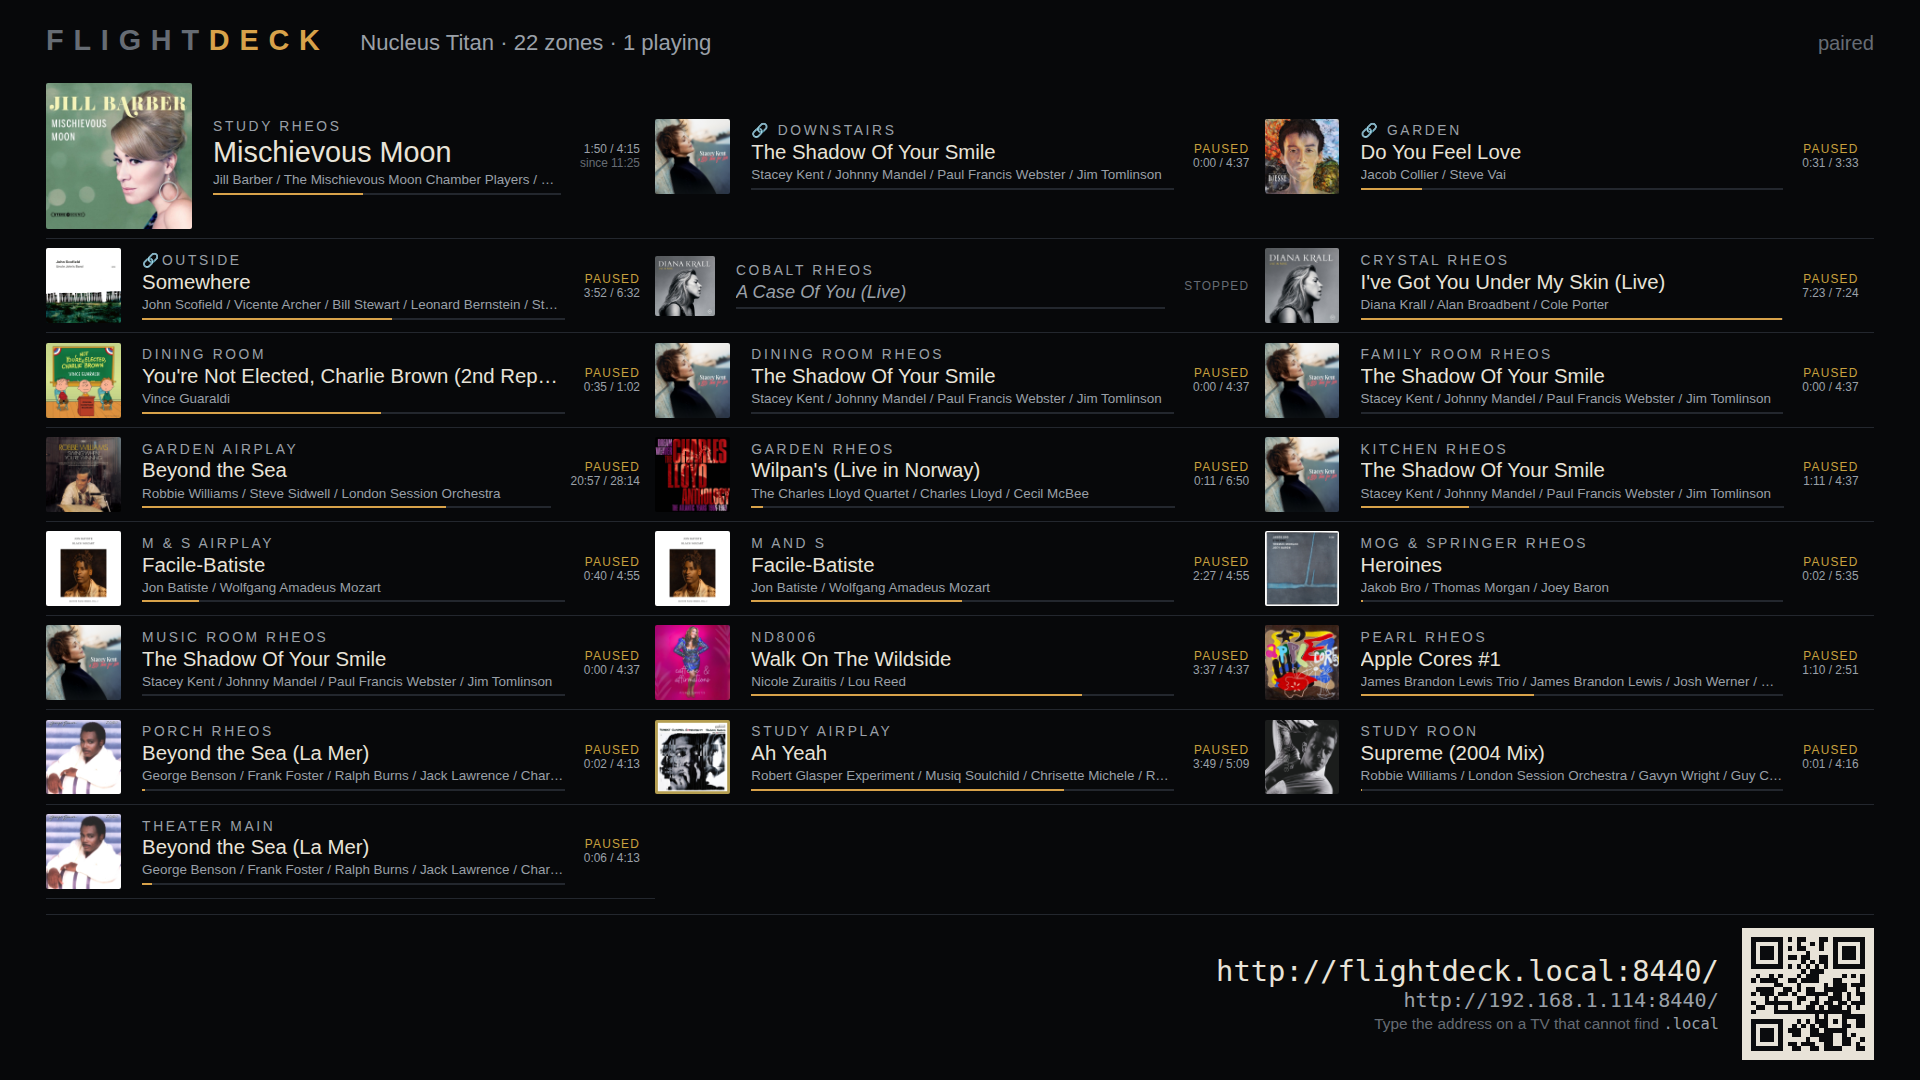
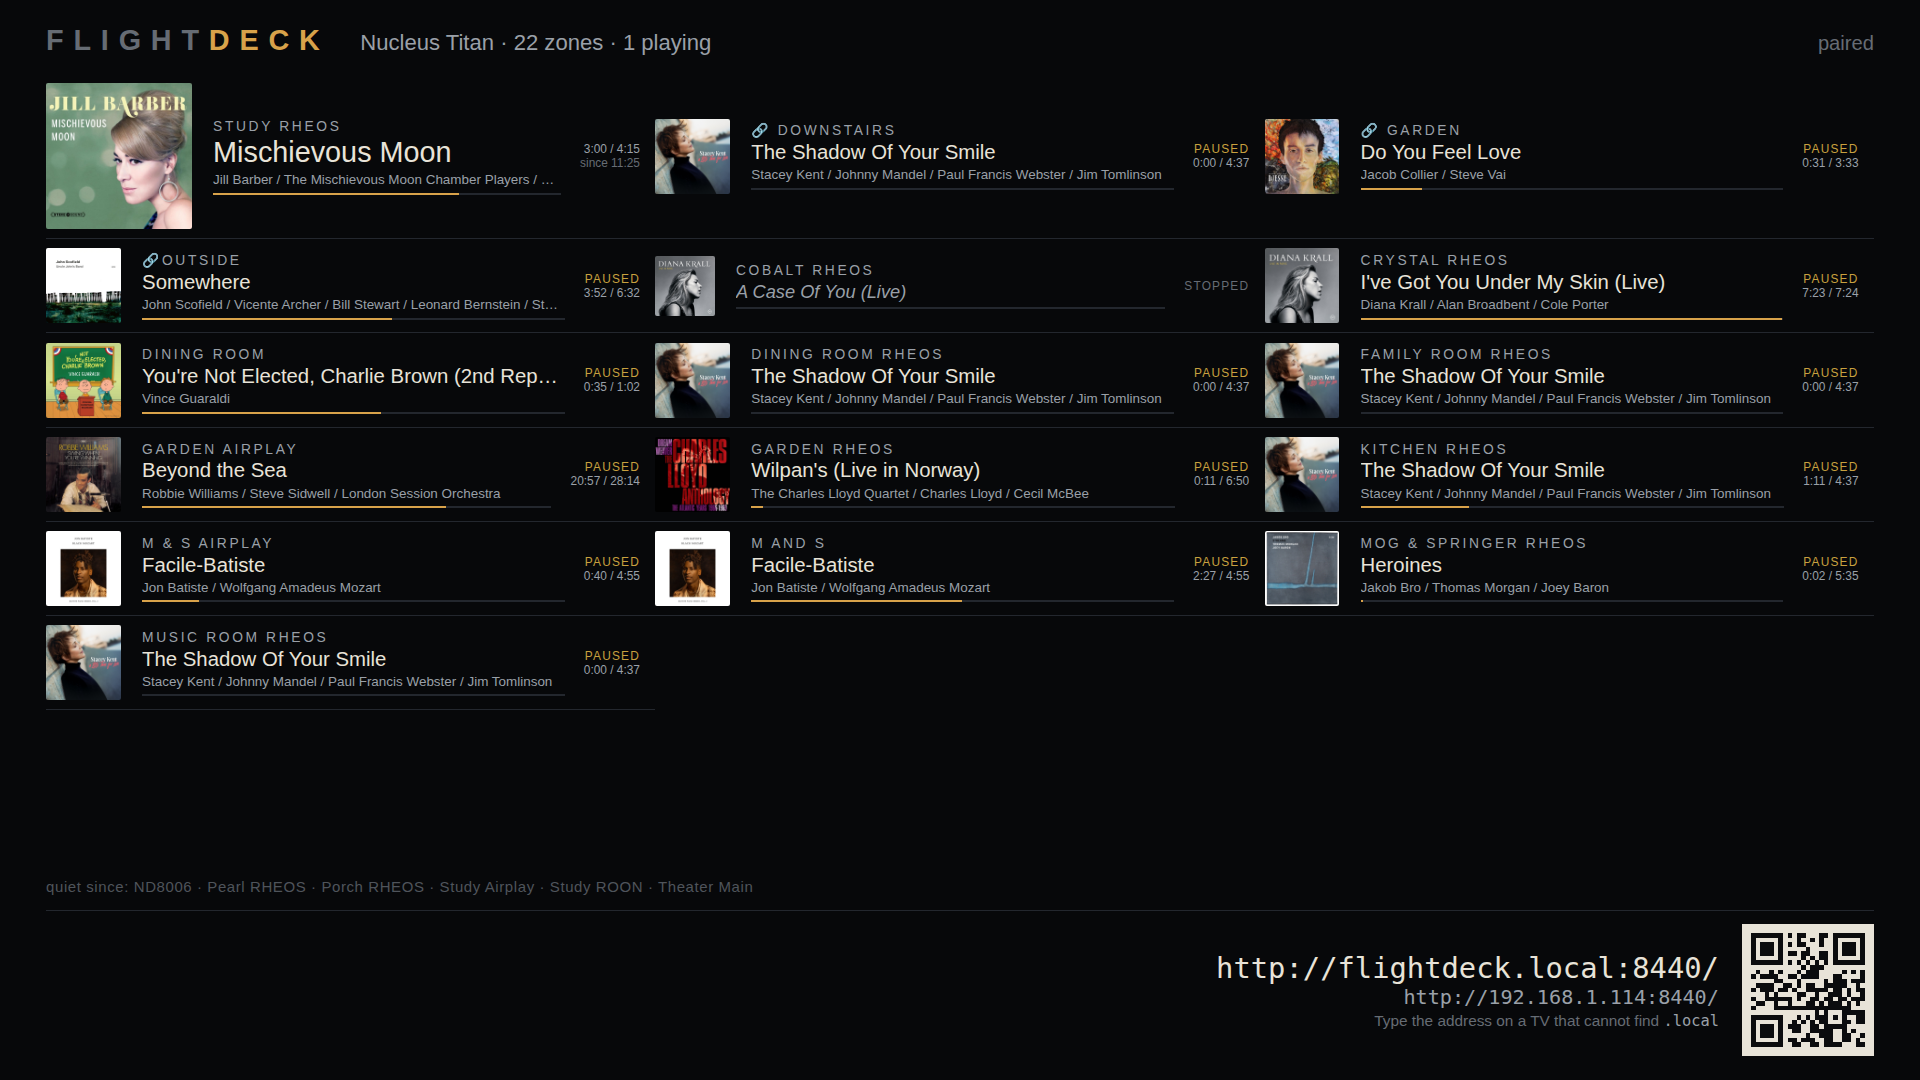
feat(wall): cap at 16 zones; fix(status): stop claiming 'catching up' after healing
Peter's call: 16 per screen. Better than paging — the order is already
most-recently-played, so the cap curates itself, and the remainder becomes one
quiet line rather than a second page someone must reach with a remote.
Override per screen with ?zones=N.

The watchdog receipt exposed a screen that lied: a late error frame from the dead
socket left 'catching up' on display after the data was already live again. Both
screens now restore the truth on heal.

Receipt (2026-08-25, live): server killed -> 'catching up' within 12s -> still at
+32s -> restarted -> live data returns with performance.timeOrigin unchanged, so
the page healed IN PLACE with no reload. That is the exact failure Roon's own
Display cannot recover from.

diff --git a/assets/wall.js b/assets/wall.js
@@ -16,6 +16,21 @@ var coreEl = document.getElementById('core');
 var tiles = {};
 var order = [];
 
+/**
+ * A wall shows the zones worth looking at, not every zone that exists. Because
+ * the order is most-recently-played, the cap curates itself: the rooms in use
+ * are the rooms on screen, and a room silent for a week does not need a tile.
+ *
+ * The remainder becomes one quiet line rather than a second page — a TV is
+ * driven by a remote from a sofa, and a wall nobody has to operate is the point.
+ * Override per screen with ?zones=N (0 for all).
+ */
+var MAX_TILES = 16;
+(function readCap() {
+  var match = /[?&]zones=(\d+)/.exec(window.location.search);
+  if (match !== null) MAX_TILES = Math.max(0, Math.min(64, parseInt(match[1], 10)));
+})();
+
 function el(tag, className, text) {
   var node = document.createElement(tag);
   if (className) node.className = className;
@@ -51,6 +66,20 @@ function buildTile(zone) {
     line2: line2, fill: fill, stamp: stamp, state: state, times: times,
     artKey: null, chips: []
   };
+}
+
+var overflowEl = null;
+function setOverflow(zones) {
+  if (overflowEl === null) {
+    overflowEl = el('div', 'overflow');
+    grid.parentNode.insertBefore(overflowEl, grid.nextSibling);
+  }
+  if (zones.length === 0) { overflowEl.textContent = ''; overflowEl.hidden = true; return; }
+  var names = [];
+  for (var i = 0; i < zones.length && i < 8; i += 1) names.push(zones[i].name);
+  overflowEl.hidden = false;
+  overflowEl.textContent = 'quiet since: ' + names.join(' · ')
+    + (zones.length > names.length ? ' and ' + (zones.length - names.length) + ' more' : '');
 }
 
 function stampFor(zone, now) {
@@ -130,8 +159,13 @@ function render(snapshot, kind) {
     summaryEl.textContent = (core.name ? core.name + ' · ' : '')
       + snapshot.zones.length + ' zones · ' + playing + ' playing'
       + (loading > 0 ? ' · ' + loading + ' loading' : '');
-    coreEl.textContent = core.state === 'paired' ? 'paired' : 'Roon is away — showing the last known state';
-    coreEl.className = 'wall-core' + (core.state === 'paired' ? '' : ' away');
+    if (streamState === 'catching-up') {
+      coreEl.textContent = 'catching up…';
+      coreEl.className = 'wall-core away';
+    } else {
+      coreEl.textContent = core.state === 'paired' ? 'paired' : 'Roon is away — showing the last known state';
+      coreEl.className = 'wall-core' + (core.state === 'paired' ? '' : ' away');
+    }
 
     if (snapshot.zones.length === 0) {
       grid.replaceChildren(el('div', 'empty', 'No Roon zones yet.'));
@@ -139,16 +173,16 @@ function render(snapshot, kind) {
       return;
     }
 
-    // Fit the house into the screen: a TV cannot scroll, so density scales with
-    // the number of zones rather than letting the last rooms fall off the bottom.
-    var count = snapshot.zones.length;
-    // 3 columns absorbs a large house comfortably (22 zones = 8 rows); 4 columns
-    // is reserved for the genuinely huge, where nothing else fits.
-    root.setAttribute('data-density', count > 27 ? 'packed' : (count > 9 ? 'dense' : 'roomy'));
+    // Fit the house into the screen: a TV cannot scroll, so shown zones are capped
+    // and density scales with what is left.
+    var shown = MAX_TILES === 0 ? snapshot.zones : snapshot.zones.slice(0, MAX_TILES);
+    var overflow = snapshot.zones.slice(shown.length);
+    var count = shown.length;
+    root.setAttribute('data-density', count > 20 ? 'packed' : (count > 9 ? 'dense' : 'roomy'));
 
     var nextOrder = [];
-    for (var i = 0; i < snapshot.zones.length; i += 1) {
-      var zone = snapshot.zones[i];
+    for (var i = 0; i < shown.length; i += 1) {
+      var zone = shown[i];
       var tile = tiles[zone.id];
       if (tile === undefined) { tile = buildTile(zone); tiles[zone.id] = tile; }
       var isHero = i === 0 && (zone.state === 'playing' || zone.state === 'loading');
@@ -170,9 +204,10 @@ function render(snapshot, kind) {
       for (var k = 0; k < order.length; k += 1) nodes.push(tiles[order[k]].node);
       grid.replaceChildren.apply(grid, nodes);
     }
+    setOverflow(overflow);
   }
 
-  // Progress on every frame, including seek ticks.
+  // Progress on every frame, including seek ticks. Only tiles that exist.
   for (var z = 0; z < snapshot.zones.length; z += 1) {
     var azone = snapshot.zones[z];
     var atile = tiles[azone.id];
@@ -191,8 +226,13 @@ function render(snapshot, kind) {
 
 var store = createStore(render);
 store.hydrate();
+var streamState = 'live';
 createStream(store, function (state) {
-  if (state === 'catching-up') coreEl.textContent = 'catching up…';
+  streamState = state;
+  // Restore the truth on heal: a late error frame from the dead socket used to
+  // leave "catching up" on screen after the data was already live again.
+  if (state === 'catching-up') { coreEl.textContent = 'catching up…'; coreEl.className = 'wall-core away'; }
+  else { var snap = store.snapshot(); if (snap !== null) render(snap, 'snapshot'); }
 });
 
 // Repaint at a low rate so interpolated progress moves smoothly between frames

diff --git a/assets/face.js b/assets/face.js
@@ -232,7 +232,8 @@ function render(snapshot, kind) {
     if (chipHost.childNodes.length !== wanted.length) {
       chipHost.replaceChildren.apply(chipHost, wanted.map(function (o) { return el('span', 'chip', o.name); }));
     }
-    status.textContent = away ? 'Roon is away' : (zone.state === 'playing' ? 'playing' : zone.state);
+    status.textContent = streamState === 'catching-up' ? 'catching up…'
+      : (away ? 'Roon is away' : (zone.state === 'playing' ? 'playing' : zone.state));
 
     var np = zone.nowPlaying;
     if (np === null || zone.state === 'stopped') {
@@ -318,8 +319,11 @@ keepAwake();
 root.setAttribute('data-face', current);
 var store = createStore(render);
 store.hydrate();
+var streamState = 'live';
 createStream(store, function (state) {
+  streamState = state;
   if (state === 'catching-up') status.textContent = 'catching up…';
+  else { var snap = store.snapshot(); if (snap !== null) render(snap, 'snapshot'); }
 });
 setInterval(function () {
   var snapshot = store.snapshot();

diff --git a/assets/wall.css b/assets/wall.css
@@ -90,6 +90,10 @@ body { min-height: 100vh; }
 .tile-rule { position: relative; height: 2px; background: var(--line); margin-top: 0.5vh; }
 .tile-rule i { position: absolute; left: 0; top: 0; bottom: 0; background: var(--accent); width: 0; }
 
+.overflow { padding: 0.9vh 0 0; font-size: 0.78vw; color: #4f545b; letter-spacing: 0.04em; }
+.overflow[hidden] { display: none; }
+@media (max-width: 900px) { .overflow { font-size: 2.2vw; } }
+
 .wall-foot { margin-top: 1.4vh; padding-top: 1.2vh; border-top: 1px solid var(--line); }
 .reach { display: flex; align-items: center; justify-content: flex-end; }
 .reach-urls { text-align: right; margin-right: 1.2vw; }

diff --git a/docs/tv-drill.md b/docs/tv-drill.md
@@ -2,20 +2,34 @@
 
 Receipts, with denominators. A drill is not passed because it looked fine once.
 
-## I0 — pair
+## I0 — pair  ✅ PASSED 2026-08-25
 
-- [ ] `npm start`; **FlightDeck** appears in Roon → Settings → Extensions; enable it.
-- [ ] The log lists every zone the Core knows (expect 18 on Peter's house).
-- [ ] `data/roon-state.json` exists; restart the process and it re-pairs **without** a new prompt.
+- [x] `npm start`; **FlightDeck** appears in Roon → Settings → Extensions; enable it.
+- [x] The log lists every zone the Core knows — **22 zones** on Nucleus Titan (RHEOS rooms, AirPlay,
+      Roon Ready incl. ND8006 and Study ROON, the 🔗 fixed groups, Theater Main). Not 18: FlightDeck sees
+      every Roon zone, which is the whole promise.
+- [x] Port 80 refused (EACCES, unprivileged) → fell back to 8440 exactly as the ladder intends.
+- [x] `artist_image_keys` present on **22/22** zones — better than the 185/192 the logs suggested. The artist
+      banner fetches at exactly the predicted **1024×448**; the cover at 640×640.
+- [x] `data/roon-state.json` exists; the process was restarted five times and re-paired **without** a new prompt.
 - [ ] Start from a different working directory — no stray `config.json` is created.
 
 ## I1 — the spine, the Wall, the name
 
-- [ ] The lounge TV browser shows every zone with artwork, ordered most-recently-played first.
+- [x] Artwork: **22/22 covers resolve** through the relay (after fixing a bug where the concurrency cap
+      dropped requests instead of queueing, leaving ~7 tiles blank).
+- [x] The Wall shows the house ordered most-recently-played, capped at **16 tiles** with the remainder as a
+      quiet "quiet since:" line — a TV cannot scroll, and nobody should have to operate a wall.
+- [ ] Seen on the actual lounge TV, not just headless Chrome.
 - [ ] Play/pause in Roon → the tile changes within 1 s.
-- [ ] **Ethernet pull:** unplug the server's Ethernet for 60 s mid-track → the Wall says "catching up" within
-      25 s → heals within 5 s of replug, **with no reload**. 3/3.
-- [ ] **The name, 4 clients each recorded pass/fail:** `getent hosts flightdeck.local` on the host · an
+- [x] **The watchdog, by process kill (equivalent and safer — FlightDeck is display-only, so it cannot touch
+      playback):** server killed → "catching up…" within 12 s → still catching up at +32 s → server restarted →
+      live data returns and `performance.timeOrigin` is unchanged, i.e. **the page healed in place with no
+      reload**. This is the exact failure Roon's own Display cannot recover from. ⚠ The Ethernet-pull variant
+      (a real network partition rather than a refused connection) is still owed.
+- [x] 1 of 4: `getent hosts flightdeck.local` → 192.168.1.114, and `avahi-resolve` agrees. The responder
+      coexists with the host avahi and did **not** need to rename itself.
+- [ ] **The name, remaining 3 clients each recorded pass/fail:** `getent hosts flightdeck.local` on the host · an
       iPhone · a Windows laptop (`ping flightdeck.local`) · one Android-12+ TV.
 - [ ] Start a second instance → it renames itself to `flightdeck-2.local` rather than fighting.
 - [ ] **The QR has never been scanned by a real phone** — it is generated by a hand-written encoder with no
